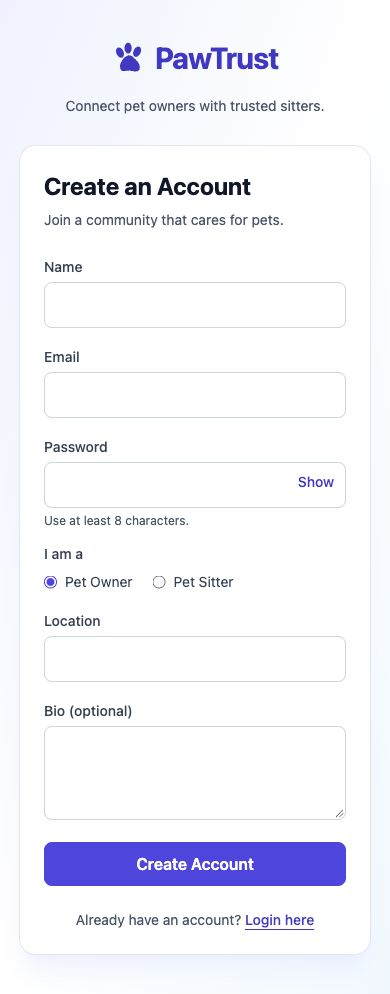
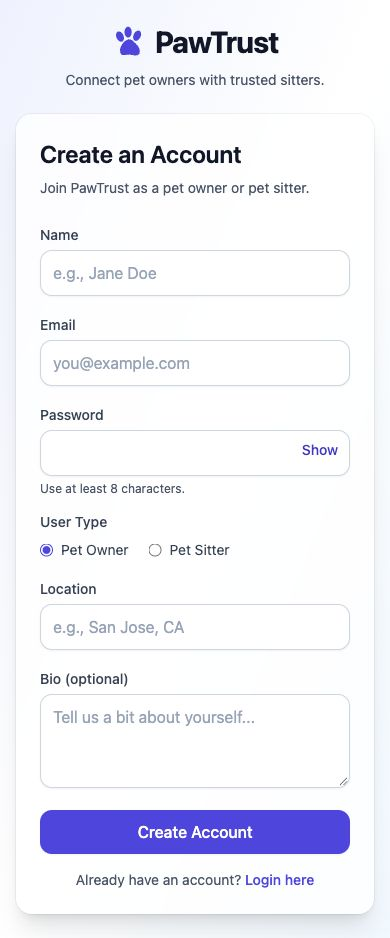
style(auth): define shared design specification and align auth pages (#6)

diff --git a/pawtrust-frontend/src/components/AuthForm.jsx b/pawtrust-frontend/src/components/AuthForm.jsx
@@ -22,26 +22,26 @@ export default function AuthForm({ register = false, onSubmit }) {
     catch (failure) { setError(failure.message); }
     finally { busy.current = false; setPending(false); }
   }
-  function field(label, name, type = 'text', autoComplete) {
+  function field(label, name, type = 'text', autoComplete, placeholder) {
     return <div><label htmlFor={name} className="text-sm font-medium text-slate-700">{label}</label>
-      <input id={name} name={name} type={type} autoComplete={autoComplete} required value={values[name]} onChange={handleChange} className={inputClass} /></div>;
+      <input id={name} name={name} type={type} placeholder={placeholder} autoComplete={autoComplete} required value={values[name]} onChange={handleChange} className={inputClass} /></div>;
   }
   return <form noValidate onSubmit={handleSubmit} className="mt-6 space-y-4" aria-busy={pending}>
-    {register && field('Name', 'name', 'text', 'name')}
-    {field('Email', 'email', 'email', 'email')}
+    {register && field('Name', 'name', 'text', 'name', 'e.g., Jane Doe')}
+    {field('Email', 'email', 'email', 'email', 'you@example.com')}
     <div><label htmlFor="password" className="text-sm font-medium text-slate-700">Password</label>
       <div className="relative"><input id="password" name="password" type={visible ? 'text' : 'password'} autoComplete={register ? 'new-password' : 'current-password'} required value={values.password} onChange={handleChange} className={`${inputClass} pr-20`} aria-describedby={register ? 'password-hint' : undefined} />
         <button type="button" aria-label={visible ? 'Hide password' : 'Show password'} aria-pressed={visible} onClick={() => setVisible(!visible)} className="absolute right-3 top-3.5 rounded text-sm font-medium text-indigo-700 focus:ring-2 focus:ring-indigo-500">{visible ? 'Hide' : 'Show'}</button></div>
       {register && <p id="password-hint" className="mt-1 text-xs text-slate-600">Use at least 8 characters.</p>}
     </div>
     {register && <>
-      <fieldset><legend className="mb-2 text-sm font-medium text-slate-700">I am a</legend>
+      <fieldset><legend className="mb-2 text-sm font-medium text-slate-700">User Type</legend>
         <div className="flex flex-wrap gap-5">{[['owner', 'Pet Owner'], ['sitter', 'Pet Sitter']].map(([value, label]) => <label key={value} className="flex cursor-pointer items-center gap-2 text-sm text-slate-700"><input type="radio" name="userType" value={value} checked={values.userType === value} onChange={handleChange} className="accent-indigo-600 focus:ring-2 focus:ring-indigo-500" />{label}</label>)}</div>
       </fieldset>
-      {field('Location', 'location', 'text', 'address-level2')}
-      <div><label htmlFor="bio" className="text-sm font-medium text-slate-700">Bio (optional)</label><textarea id="bio" name="bio" rows={3} value={values.bio} onChange={handleChange} className={inputClass} /></div>
+      {field('Location', 'location', 'text', 'address-level2', 'e.g., San Jose, CA')}
+      <div><label htmlFor="bio" className="text-sm font-medium text-slate-700">Bio (optional)</label><textarea id="bio" name="bio" rows={3} placeholder="Tell us a bit about yourself..." value={values.bio} onChange={handleChange} className={inputClass} /></div>
     </>}
-    {error && <p role="alert" className="rounded-lg bg-rose-50 p-3 text-sm leading-5 text-rose-800">{error}</p>}
+    {error && <p role="alert" className="rounded-lg bg-rose-50 p-3 text-sm leading-5 text-rose-800 ring-1 ring-rose-200">{error}</p>}
     <button type="submit" disabled={pending} className={`${buttonClass} w-full`}>{pending ? (register ? 'Creating account…' : 'Logging in…') : (register ? 'Create Account' : 'Login')}</button>
   </form>;
 }

diff --git a/pawtrust-frontend/src/components/AuthLayout.jsx b/pawtrust-frontend/src/components/AuthLayout.jsx
@@ -1,18 +1,18 @@
 import { Link } from 'react-router-dom';
 
-export const inputClass = 'mt-1 w-full rounded-lg border border-slate-300 bg-white px-3 py-2.5 text-slate-900 outline-none focus:ring-2 focus:ring-indigo-500';
-export const buttonClass = 'rounded-lg bg-indigo-600 px-4 py-2.5 font-semibold text-white hover:bg-indigo-700 focus:outline-none focus:ring-2 focus:ring-indigo-500 focus:ring-offset-2 disabled:cursor-wait disabled:opacity-60';
-export const linkClass = 'font-medium text-indigo-700 underline underline-offset-4 focus:outline-none focus:ring-2 focus:ring-indigo-500';
+export const inputClass = 'mt-1 w-full rounded-xl border border-slate-300 bg-white px-3 py-2.5 text-slate-900 placeholder:text-slate-400 shadow-sm focus:border-indigo-500 focus:outline-none focus:ring-4 focus:ring-indigo-100';
+export const buttonClass = 'rounded-xl bg-indigo-600 px-4 py-2.5 font-medium text-white shadow-sm transition hover:bg-indigo-700 focus:outline-none focus:ring-4 focus:ring-indigo-200 disabled:cursor-wait disabled:opacity-60';
+export const linkClass = 'font-medium text-indigo-600 hover:underline focus:outline-none focus:ring-2 focus:ring-indigo-500';
 
 export default function AuthLayout({ children }) {
-  return <main className="min-h-screen bg-gradient-to-br from-indigo-50 via-white to-sky-50 px-5 py-10 sm:py-14">
-    <header className="mx-auto mb-7 max-w-md text-center">
-      <Link to="/" className="inline-flex items-center gap-2 rounded-md text-3xl font-bold tracking-tight text-indigo-700 focus:outline-none focus:ring-2 focus:ring-indigo-500">
-        <svg aria-hidden="true" viewBox="0 0 40 40" className="h-9 w-9 fill-current"><ellipse cx="10" cy="14" rx="4" ry="6" transform="rotate(-25 10 14)"/><ellipse cx="19" cy="9" rx="4" ry="6"/><ellipse cx="29" cy="13" rx="4" ry="6" transform="rotate(25 29 13)"/><path d="M10 29c0-5 6-12 10-12s12 8 12 13c0 8-8 4-12 4s-10 3-10-5Z"/></svg>
+  return <main className="min-h-screen bg-gradient-to-br from-indigo-50 via-white to-sky-50 px-4 py-6 sm:py-10">
+    <header className="mx-auto mb-6 max-w-md text-center">
+      <Link to="/" className="inline-flex items-center gap-2 rounded-md text-3xl font-bold tracking-tight text-slate-900 focus:outline-none focus:ring-2 focus:ring-indigo-500">
+        <svg aria-hidden="true" viewBox="0 0 40 40" className="h-9 w-9 fill-current text-indigo-600"><ellipse cx="10" cy="14" rx="4" ry="6" transform="rotate(-25 10 14)"/><ellipse cx="19" cy="9" rx="4" ry="6"/><ellipse cx="29" cy="13" rx="4" ry="6" transform="rotate(25 29 13)"/><path d="M10 29c0-5 6-12 10-12s12 8 12 13c0 8-8 4-12 4s-10 3-10-5Z"/></svg>
         PawTrust
       </Link>
-      <p className="mt-3 text-sm leading-6 text-slate-600">Connect pet owners with trusted sitters.</p>
+      <p className="mt-1 text-sm text-slate-600">Connect pet owners with trusted sitters.</p>
     </header>
-    <section className="mx-auto max-w-md rounded-2xl bg-white p-6 shadow-xl shadow-indigo-100/50 ring-1 ring-slate-200 sm:p-8">{children}</section>
+    <section className="mx-auto w-full max-w-md rounded-2xl bg-white/80 p-6 shadow-xl ring-1 ring-black/5 backdrop-blur">{children}</section>
   </main>;
 }

diff --git a/pawtrust-frontend/src/pages/LoginPage.jsx b/pawtrust-frontend/src/pages/LoginPage.jsx
@@ -12,10 +12,10 @@ export default function LoginPage() {
     const user = saveSession(result);
     navigate(`/${user.userType}`, { replace: true });
   }
-  return <AuthLayout><h1 className="text-2xl font-bold text-slate-900">Welcome back</h1>
-    <p className="mt-2 text-sm text-slate-600">Log in to your PawTrust account.</p>
+  return <AuthLayout><h1 className="text-2xl font-semibold text-slate-900">Login</h1>
+    <p className="mt-2 text-sm text-slate-600">Welcome back! Please sign in to continue.</p>
     {location.state?.registered && <p role="status" className="mt-4 rounded-lg bg-emerald-50 p-3 text-sm text-emerald-800">Account created. Log in to get started.</p>}
     <AuthForm onSubmit={handleLogin} />
-    <p className="mt-6 text-center text-sm text-slate-600">New to PawTrust? <Link to="/register" className={linkClass}>Register here</Link></p>
+    <p className="mt-4 text-center text-sm text-slate-600">Don't have an account? <Link to="/register" className={linkClass}>Register here</Link></p>
   </AuthLayout>;
 }

diff --git a/pawtrust-frontend/src/pages/RegisterPage.jsx b/pawtrust-frontend/src/pages/RegisterPage.jsx
@@ -9,9 +9,9 @@ export default function RegisterPage() {
     await apiFetch('/register', { method: 'POST', body: JSON.stringify(values) });
     navigate('/', { replace: true, state: { registered: true } });
   }
-  return <AuthLayout><h1 className="text-2xl font-bold text-slate-900">Create an Account</h1>
-    <p className="mt-2 text-sm text-slate-600">Join a community that cares for pets.</p>
+  return <AuthLayout><h1 className="text-2xl font-semibold text-slate-900">Create an Account</h1>
+    <p className="mt-2 text-sm text-slate-600">Join PawTrust as a pet owner or pet sitter.</p>
     <AuthForm register onSubmit={handleRegister} />
-    <p className="mt-6 text-center text-sm text-slate-600">Already have an account? <Link to="/" className={linkClass}>Login here</Link></p>
+    <p className="mt-4 text-center text-sm text-slate-600">Already have an account? <Link to="/" className={linkClass}>Login here</Link></p>
   </AuthLayout>;
 }

diff --git a/Design.md b/Design.md
@@ -1,0 +1,84 @@
+# PawTrust Frontend Design Specification
+
+## Design context and references
+
+PawTrust connects pet owners arranging care with sitters finding care tasks. The interface uses a light, approachable visual style with clear forms, readable task information, and explicit action states.
+
+This specification applies to authentication, owner, and sitter pages. Feature scope and business behavior come from [PRD](docs/PRD.md) and the target issue. Page composition and field order follow [the current mockup](docs/mockups/pawtrust-mockup.png). Shared visual treatments are derived from the previous PawTrust frontend:
+
+- [LoginPage](https://github.com/BeautySharon/CS5610_Final_Project/blob/main/pawtrust-frontend/src/pages/LoginPage.jsx): gradient background, constrained auth layout, rounded inputs, indigo actions, password visibility control.
+- [RegisterPage](https://github.com/BeautySharon/CS5610_Final_Project/blob/main/pawtrust-frontend/src/pages/RegisterPage.jsx): labeled fields, form spacing, card surface, secondary navigation.
+- [OwnerDashboard](https://github.com/BeautySharon/CS5610_Final_Project/blob/main/pawtrust-frontend/src/pages/OwnerDashboard.jsx): desktop 4/8-column split, cards, section headings.
+- [SitterDashboard](https://github.com/BeautySharon/CS5610_Final_Project/blob/main/pawtrust-frontend/src/pages/SitterDashboard.jsx): three equal desktop columns, status colors and pagination.
+
+Reference styles inspected on November 2, 2026. These references establish visual patterns, not API contracts or additional product features. Use this document for subsequent implementation; consult the source only to resolve an unspecified visual detail.
+
+## Palette and typography
+
+Use Tailwind 3.4 utilities and its default sans-serif font stack. Do not load an additional font.
+
+| Purpose | Tokens |
+| --- | --- |
+| Page background | `bg-gradient-to-br from-indigo-50 via-white to-sky-50` |
+| Main text / headings | `text-slate-900` |
+| Body / secondary text | `text-slate-600`; hints may use `text-slate-500` on white |
+| Field labels | `text-sm font-medium text-slate-700` |
+| Primary action | `bg-indigo-600 text-white hover:bg-indigo-700` |
+| Links | `text-indigo-600 font-medium hover:underline` |
+| Input border | `border-slate-300` |
+| Field focus | `focus:border-indigo-500 focus:ring-4 focus:ring-indigo-100` |
+| Error | `bg-rose-50 text-rose-800 ring-1 ring-rose-200` |
+| Success | `bg-emerald-50 text-emerald-800` |
+
+Brand: `text-3xl font-bold tracking-tight`. Page headings: `text-2xl font-semibold`. Card headings: `text-lg font-semibold`. Body: `text-base`; labels and supporting text: `text-sm`; brief hints and badges: `text-xs`. Keep one page-level heading and a logical section hierarchy.
+
+## Spacing, surfaces and controls
+
+- Use the Tailwind spacing scale: 4px for label/input separation, 8px for closely related content, 16px between form fields, 24px between sections or columns.
+- Auth content: `w-full max-w-md`, centered horizontally, with at least 16px outer padding and 24px card padding. Allow vertical scrolling on short screens.
+- Auth card: `rounded-2xl bg-white/80 backdrop-blur shadow-xl ring-1 ring-black/5 p-6`.
+- Dashboard card: `rounded-2xl bg-white ring-1 ring-slate-200`; use 16px or 24px padding and a subtle shadow where needed.
+- Inputs, selects and textareas: `w-full rounded-xl border border-slate-300 bg-white px-3 py-2.5 text-slate-900 placeholder:text-slate-400 shadow-sm`, with the field-focus tokens above.
+- Primary auth button: full width, `rounded-xl px-4 py-2.5 font-medium shadow-sm`, primary colors, visible focus ring. Compact dashboard actions use `rounded-md px-3 py-1` as specified in AGENTS.md.
+- Secondary buttons: white background, slate border/ring, slate text. Destructive actions: `ring-1 ring-rose-300 text-rose-700 hover:bg-rose-50`.
+- Disabled buttons remain labeled, have reduced opacity, and cannot submit again. Use a pending label while a request is running.
+- Use simple paw branding, with an indigo icon and slate wordmark. Decorative icons are hidden from assistive technology; icon-only controls need an accessible name.
+- Use subtle color/shadow transitions only. Keep the background gradient unobstructed; the reference's decorative dot texture is not part of the current mockup.
+
+## Authentication pages — Issue #6
+
+Place the PawTrust brand and the tagline “Connect pet owners with trusted sitters.” above the card.
+
+**Login:** card title “Login”, supporting text “Welcome back! Please sign in to continue.”, Email and Password, full-width “Login” button, and “Don't have an account? Register here”.
+
+**Register:** card title “Create an Account”, supporting text “Join PawTrust as a pet owner or pet sitter.”, then Name, Email, Password, User Type, Location, and Bio (optional). Use labeled Pet Owner / Pet Sitter radio controls as shown in the current mockup. End with “Create Account” and “Already have an account? Login here”.
+
+Example placeholders may explain expected input but never replace labels. Keep the current PRD's minimum eight-character password requirement. Use the reference's text-based Show/Hide password button with an accessible name and pressed state; it provides the visibility interaction represented by the mockup's eye icon.
+
+Preserve input on failed requests, show errors near submission controls, and announce errors/status messages. Navigate only after a successful server response. Authentication logic follows AGENTS.md, including JWT storage and 401 handling.
+
+## Dashboard layouts — Issues #8 and #10
+
+Below 1024px (`lg`), stack sections in reading order with full-width controls. At `lg` and above, use `grid grid-cols-1 lg:grid-cols-12 gap-6 items-start`.
+
+- **Owner:** Post Task occupies 4 columns; My Tasks occupies 8. Display pet type, date, duration, location, textual status and application count. Show three tasks per page with Prev, page count and Next. Confirm deletion and show Delete only for eligible open tasks.
+- **Sitter:** Available, Accepted, and Finished & Reviews each occupy 4 columns. Keep an optional labeled application message beside or above Apply. Already-applied items display a disabled “Applied” action. Completion and review functionality remain in their respective issues.
+- Retain the mockup's brand/navigation header, greeting and supporting sentence. Allow long task descriptions and locations to wrap. Do not require fixed-height panels or nested scrolling on mobile.
+- Render explicit loading, empty and error states inside the relevant section. Keep pagination visible and disable unavailable directions.
+
+| Status | Badge colors |
+| --- | --- |
+| Open | `bg-sky-50 text-sky-700 ring-sky-200` |
+| Assigned / pending | `bg-amber-50 text-amber-700 ring-amber-200` |
+| Finished / accepted | `bg-emerald-50 text-emerald-700 ring-emerald-200` |
+| Not selected / neutral | `bg-slate-50 text-slate-600 ring-slate-200` |
+
+Badge shape: `text-xs px-2 py-1 rounded-full ring-1`. Always include a readable label; color alone must not communicate state.
+
+## Implementation and review
+
+Read this specification and the relevant mockup before implementing a frontend issue. Reuse shared components and style constants rather than introducing page-specific variants. `src/components/AuthLayout.jsx` owns authentication control styles; `AuthForm.jsx` owns the shared form structure.
+
+Check keyboard operation, visible focus, associated labels, readable contrast, error announcements, pending states and narrow-screen overflow. Validate both successful and failed interactions. Record any deliberate design change in this specification and update affected components together.
+
+Do not import the previous project's authentication, calendar, editing or other feature behavior unless the current PRD and issue require it. API calls, authorization and testing follow AGENTS.md.

diff --git a/docs/issue-6-auth-handoff.md b/docs/issue-6-auth-handoff.md
@@ -2,9 +2,10 @@
 
 ## Scope and design
 
-Implements US-1 and US-2 against the current PRD and Issue #6. Visual reference: `docs/mockups/pawtrust-mockup.png` and the prior course repository's LoginPage/RegisterPage (`BeautySharon/CS5610_Final_Project`). Retains its indigo buttons, pale gradient background, rounded white cards and labeled forms. Authentication behavior is newly implemented against this repository's JWT contract; old local identity storage is not reused.
+Implements US-1 and US-2 against the current PRD and Issue #6. Shared visual rules are defined in [`Design.md`](../Design.md), with page composition from `docs/mockups/pawtrust-mockup.png`. Authentication uses the current JWT contract.
 
-Main had no application scaffold at `7fc3ef7`. The minimal frontend package, build/test/lint configuration and Tailwind entry are included to make this issue runnable independently. No backend or database scaffold is introduced. The Tailwind entry contains directives only, not a separate custom stylesheet design.
+The frontend package and build/test/lint configuration make these pages runnable. No backend or database implementation is included. The Tailwind entry contains directives only. `Design.md` and its AGENTS.md entry establish shared styling for this issue and later dashboard work.
+
 
 ## TDD evidence
 
@@ -46,3 +47,7 @@ The course's backend integration tests, full user-flow E2E tests, shared CI/depl
 ## Dependency purposes
 
 React, React DOM and Router implement pages/navigation; Vite and its React plugin provide build/dev tooling; Tailwind, PostCSS and Autoprefixer implement the existing design. Vitest, jsdom and Testing Library exercise user behavior; ESLint and React/hooks plugins check source. Vitest 4.1.12 replaces initially evaluated v3 because the dependency audit reported vulnerabilities; installation audit reports zero vulnerabilities. Exact resolved versions are recorded in the lockfile.
+
+## Design alignment
+
+Authentication pages follow Design.md: slate wordmark with indigo paw, translucent rounded card, rounded-xl controls, shared focus styles, mockup headings and field order, User Type radios, and example placeholders. Password Show/Hide follows the reference implementation.

diff --git a/AGENTS.md b/AGENTS.md
@@ -13,7 +13,7 @@ Follow these steps for every task, in order, and report on each in your final me
 1. **Read the GitHub Issue** and its acceptance criteria. No issue number → stop and ask for one; never guess.
    The branch name and commit messages must use that exact issue number.
 2. **Read the linked user story** in `docs/PRD.md` and the business rules (BR-x) it touches.
-3. **Open the mockup** for the page (`docs/mockups/`, mapping in PRD §6) before writing UI.
+3. **Read `Design.md` and open the mockup** for the page (`docs/mockups/`, mapping in PRD §6) before writing UI. `Design.md` defines shared frontend styles; the PRD and target issue define feature scope.
 4. **Follow the architecture** below: route → controller → DAO; pages fetch via `apiFetch`, components get props.
 5. **Change only files in the issue's scope.** List any file you had to touch outside it and why.
 6. **Write tests** per the Testing strategy (400 / 401 / 403 / 409 cases where applicable).
@@ -178,6 +178,8 @@ pawtrust-frontend/src/
 
 ## 2. PRD & Design References
 
+- **Design specification:** [`Design.md`](Design.md) — shared palette, typography, spacing, controls, responsive layouts and interaction states for all frontend issues. Update it when a shared design pattern changes.
+
 - **PRD:** [`docs/PRD.md`](docs/PRD.md) — user stories US-1…US-10 with acceptance criteria.
   Each GitHub Issue references its user story; read the story before implementing.
 - **Mockup:** `docs/mockups/pawtrust-mockup.png` — one image with all four pages (Login, Register,
@@ -185,6 +187,8 @@ pawtrust-frontend/src/
 - **User guide:** https://docs.google.com/document/d/1Iss2T72vSEq4-krnOlWMqNabvPXAXoBrTseXnCKdLxE/edit
 
 ### Visual design (match the mockups)
+
+Use `Design.md` for the complete design specification, including authentication-specific control sizes. The compact primary-button recipe below applies to dashboard actions.
 
 - Page background: `bg-gradient-to-br from-indigo-50 via-white to-sky-50`.
 - Cards: `rounded-2xl bg-white ring-1 ring-slate-200` (or `bg-white/80 shadow-xl ring-black/5`), padding `p-4`/`p-6`.

diff --git a/README.md b/README.md
@@ -1,5 +1,9 @@
 # CS6983-Project2
 
+## Design
+
+Read [Design.md](Design.md) before implementing frontend pages. It defines shared styles and links the current mockup and visual references.
+
 ## Authentication frontend — Issue #6
 
 ```sh
